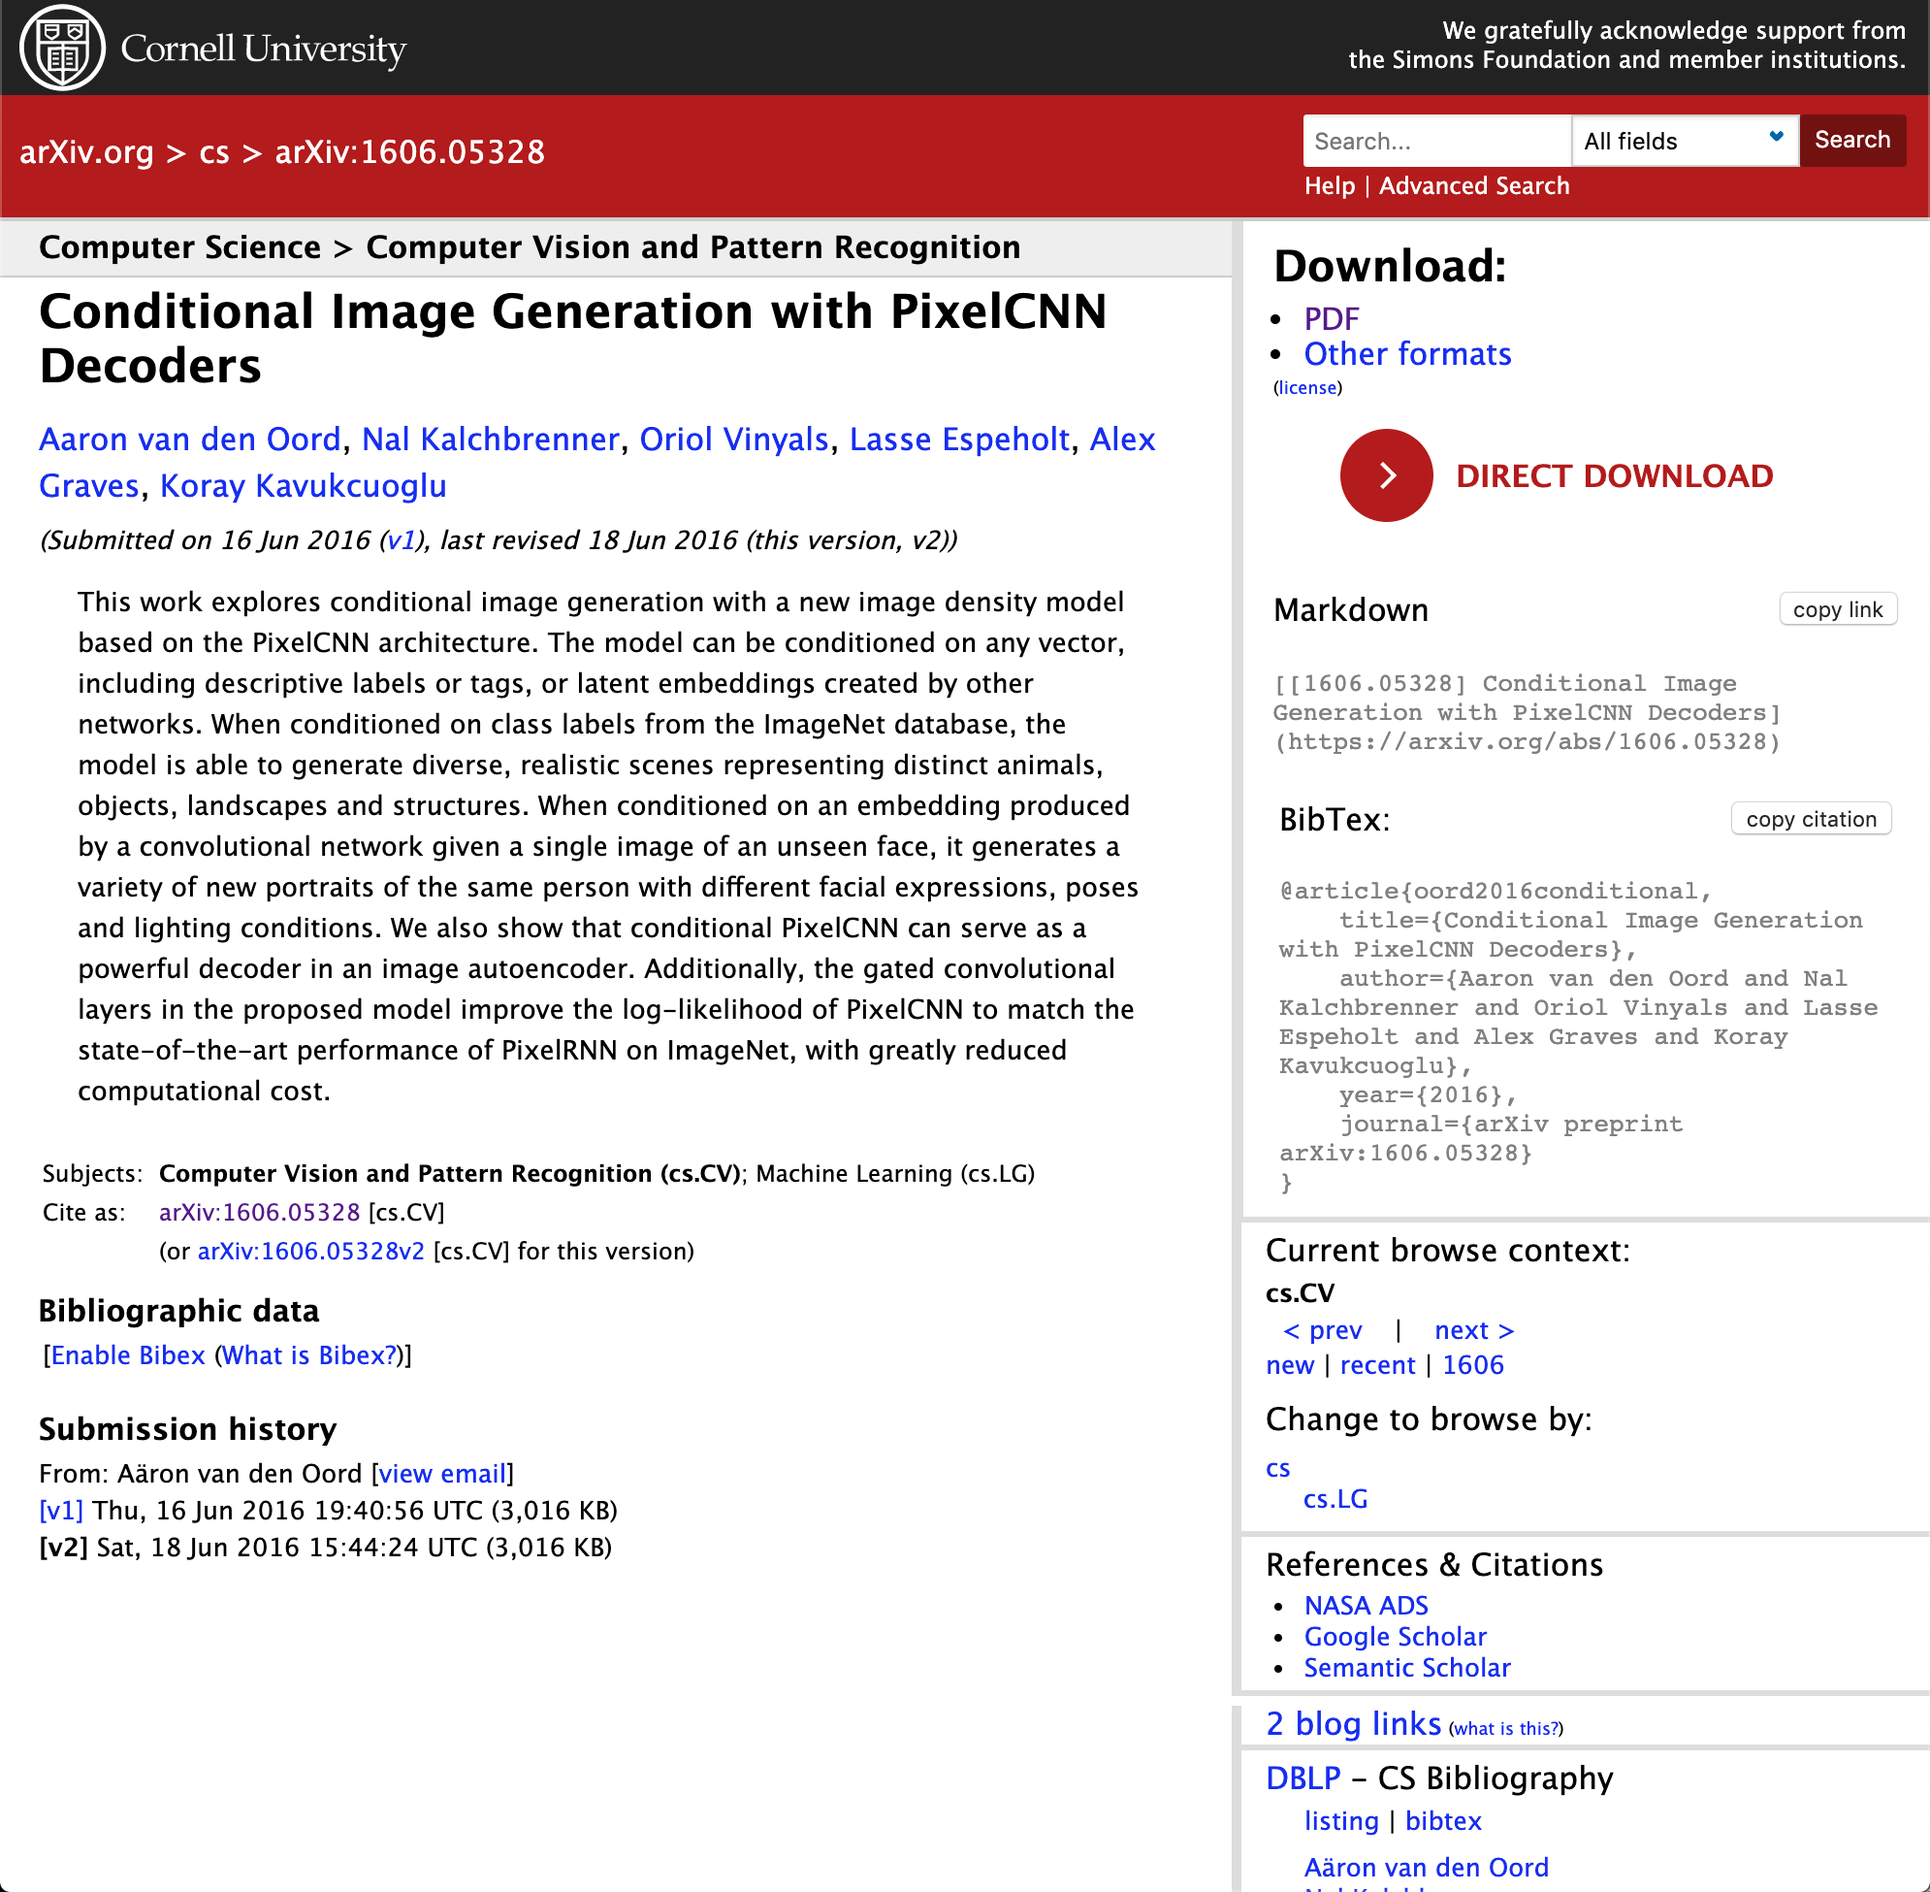
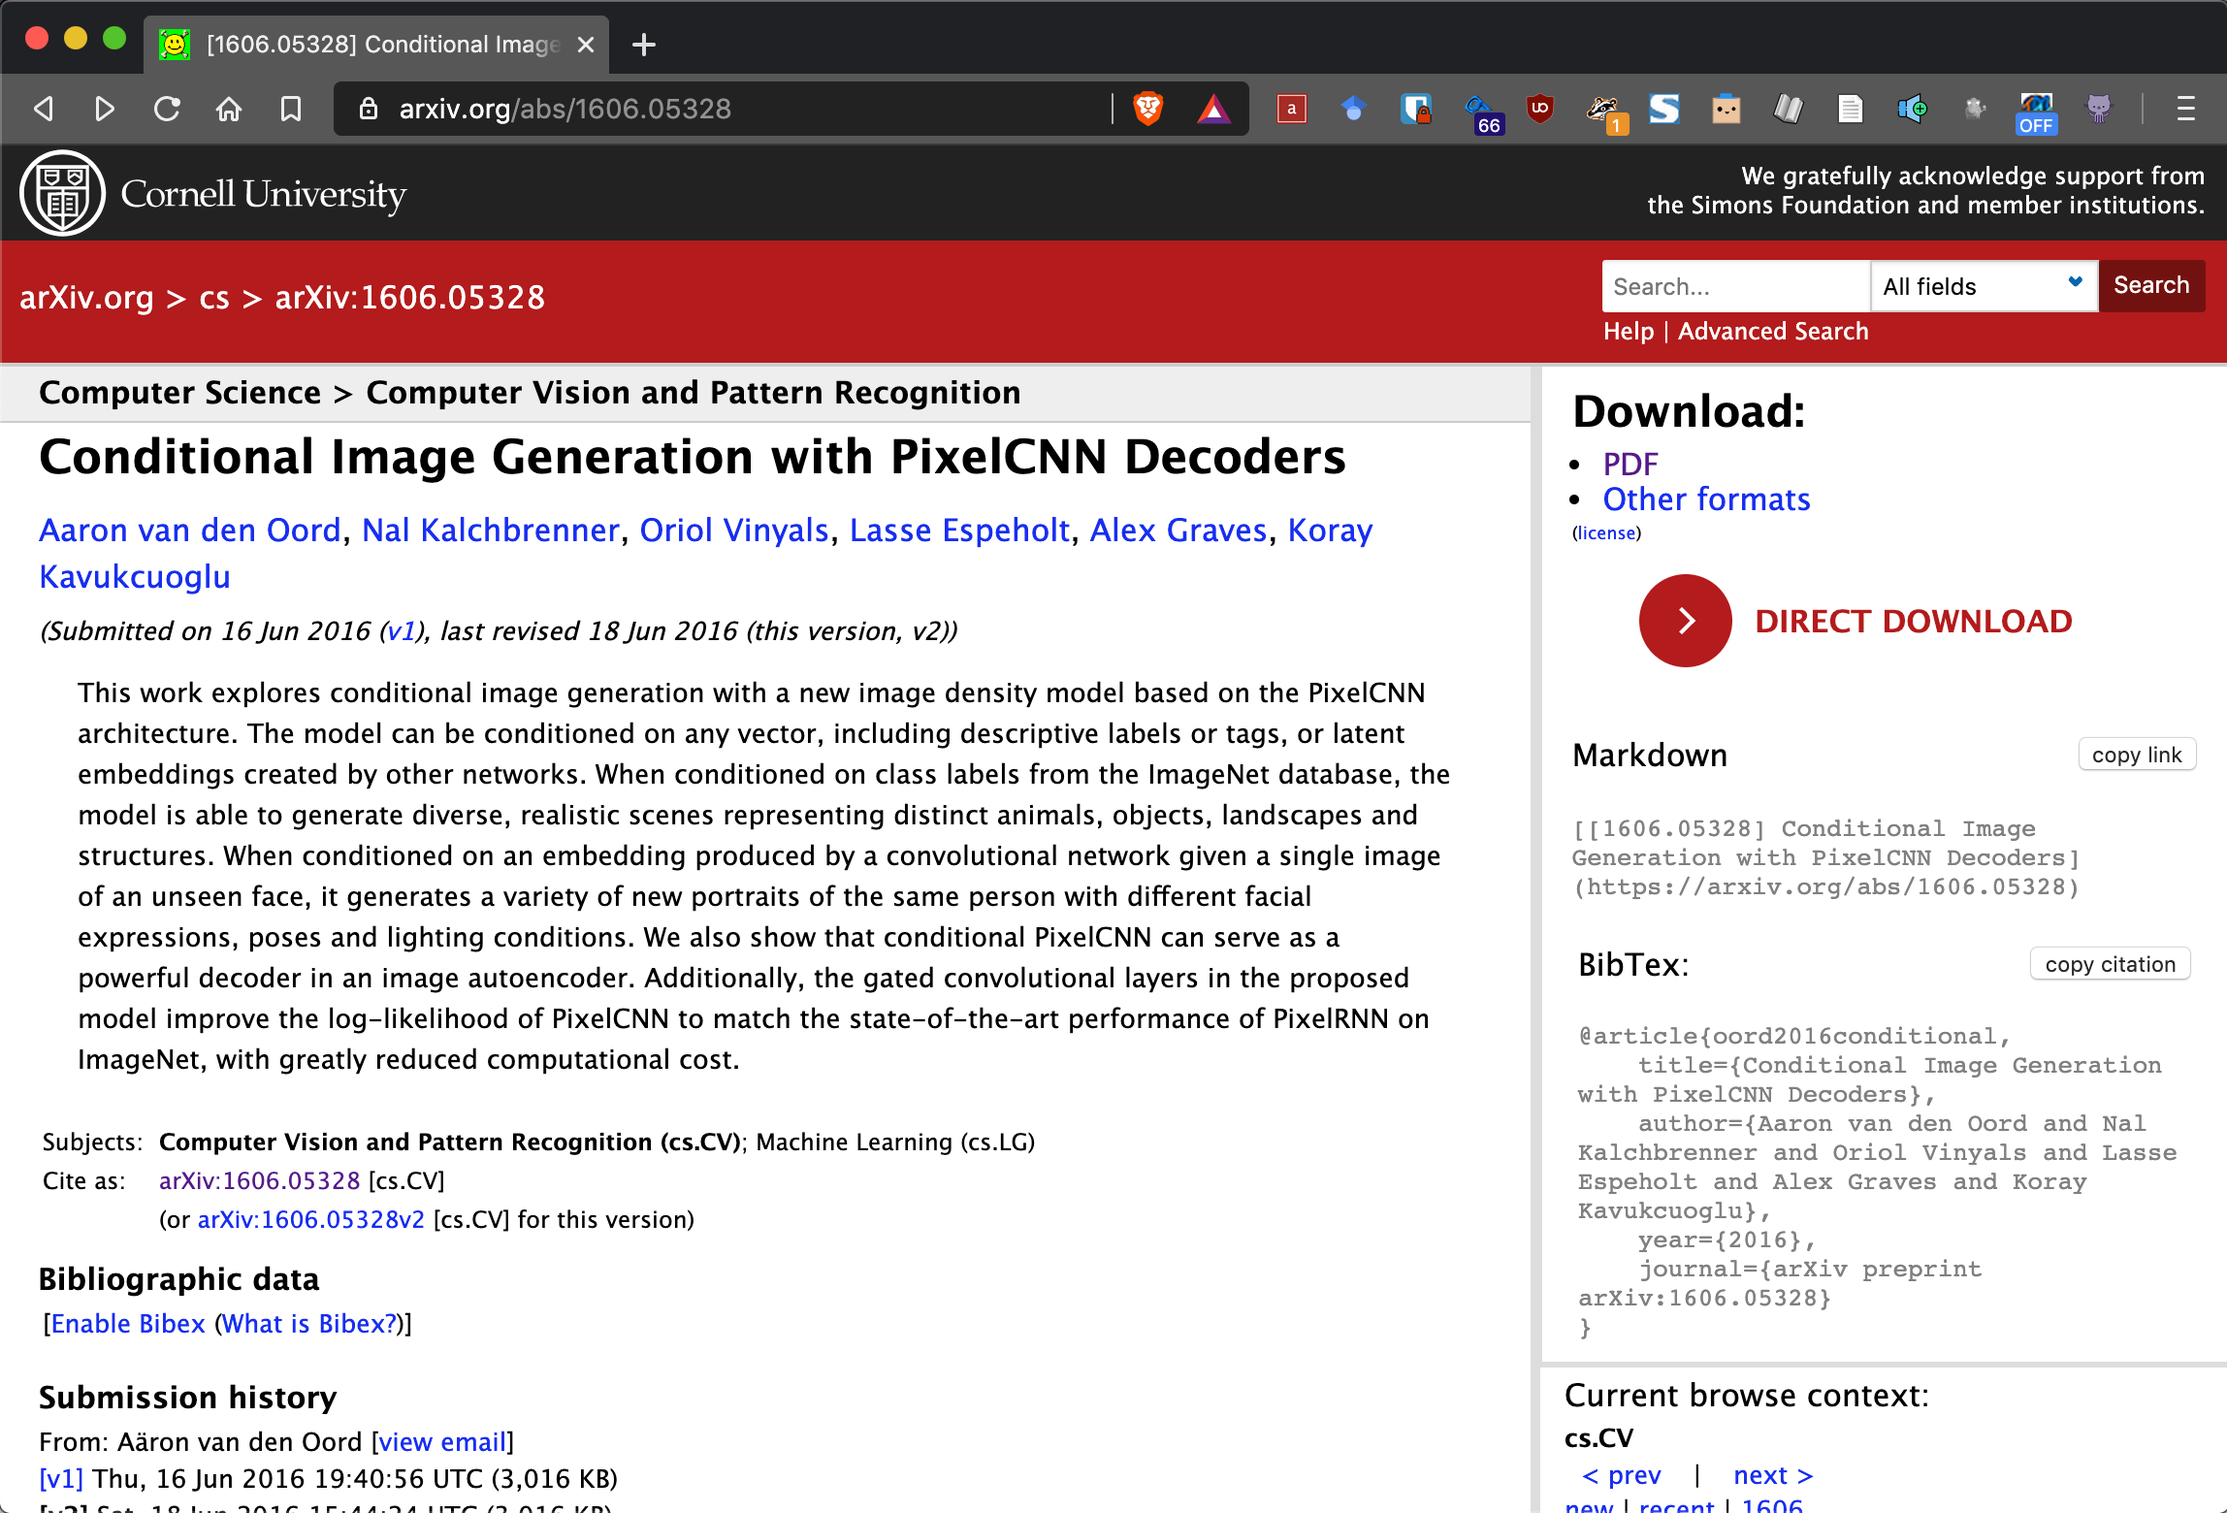
improve screenshots

diff --git a/Readme.md b/Readme.md
@@ -11,7 +11,15 @@ This browser extension allows you to do enhance Arxiv with 4 features:
 
 ![](https://github.com/vict0rsch/ArxivTools/blob/master/imgs/demo.gif?raw=true)
 
+Customize these features in the menu:
+
+![](https://github.com/vict0rsch/ArxivTools/blob/master/imgs/menu.png?raw=true)
+
+---
+
 Share ideas 💡 in [issues](https://github.com/vict0rsch/ArxivTools/issues) and love with [stars](https://github.com/vict0rsch/ArxivTools/stargazers) ⭐:)
+
+
 
 ## Installation
 
